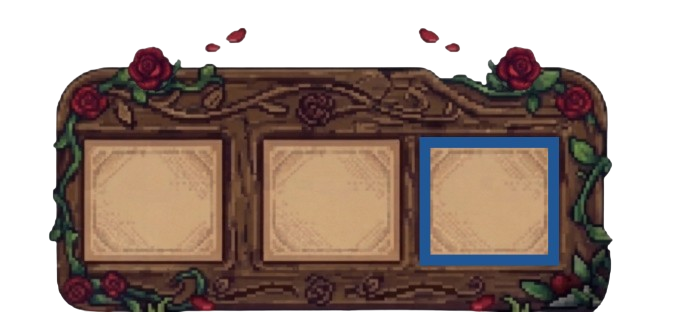
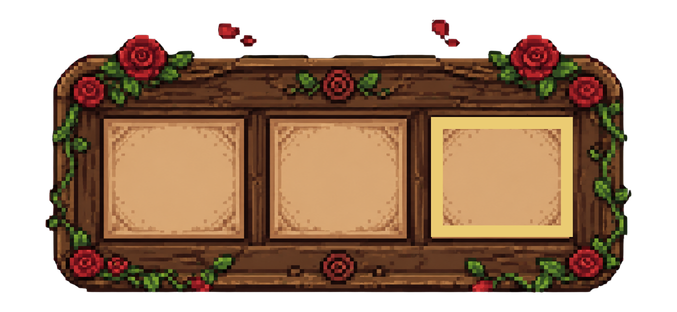
Primer Nivel, mapa acomodado

diff --git a/core/src/main/java/com/juego/progra/Mapas/HUD.java b/core/src/main/java/com/juego/progra/Mapas/HUD.java
@@ -18,14 +18,19 @@ public class HUD {
     // Texturas pre-cargadas por nivel (Evita fugas de memoria)
     private Texture[] grisNivel1, colorNivel1;
     private Texture[] grisNivel2, colorNivel2;
+    private Texture[] grisNivel3, colorNivel3;
 
-    private final int[] posX_M = {65, 182, 278};
-    private final int[] posY_M = {17, 18, 3};
-    private final int[] size_M = {75, 75, 95};
+    private final int[] posX_M = {553, 663, 762};
+    private final int[] posY_M = {33, 35, 23};
+    private final int[] size_M = {75, 75, 93};
 
-    private final int[] posX_C = {65, 183, 288};
-    private final int[] posY_C = {11, 10, 11};
+    private final int[] posX_C = {553, 663, 770};
+    private final int[] posY_C = {30, 30, 30};
     private final int[] size_C = {75, 78, 78};
+
+    private final int[] posX_F = {563, 673, 780};
+    private final int[] posY_F = {45, 45, 45};
+    private final int[] size_F = {56, 56, 56};
 
 
     private Texture[] ItemsGris = new Texture[3];
@@ -51,8 +56,8 @@ public class HUD {
 
         tablaPanel = new Table();
         tablaPanel.setBackground(new TextureRegionDrawable(new TextureRegion(texturaPaneles[0])));
-        tablaPanel.setSize(450, 150);
-        tablaPanel.setPosition(475, 2);
+        tablaPanel.setSize(450, 170);
+        tablaPanel.setPosition(950, 2);
         stage.addActor(tablaPanel);
 
         grupoItems = new Group();
@@ -81,6 +86,18 @@ public class HUD {
             new Texture("negro1.PNG"),
             new Texture("marron1.PNG"),
             new Texture("beige1.PNG")
+        };
+
+        //Flores
+        grisNivel3 = new Texture[]{
+          new Texture("blancaGris.png"),
+          new Texture("moradaGris.png"),
+          new Texture("amarillaGris.png"),
+        };
+        colorNivel3= new Texture[]{
+          new Texture("blanca1.png"),
+          new Texture ("morada1.png"),
+          new Texture("amarilla1.png"),
         };
 
         // Por defecto arrancamos con el Nivel 1
@@ -133,9 +150,26 @@ public class HUD {
         tablaPanel.setBackground(new TextureRegionDrawable(new TextureRegion(texturaPaneles[0])));
 
         // Elegimos qué configuración usar
-        int[] posYActual = (nivel == 1) ? posY_M : posY_C;
-        int[] sizeActual = (nivel == 1) ? size_M : size_C;
-        int[] posXActual = (nivel == 1) ? posX_M : posX_C;
+        int[] posXActual = {0, 0, 0};
+        int[] posYActual= {0, 0, 0};
+        int[] sizeActual= {0, 0, 0};
+
+        if(nivel==1){
+            posXActual = posX_M;
+            posYActual =posY_M;
+            sizeActual=size_M;
+
+        }else if(nivel==2){
+            posXActual = posX_C;
+            posYActual =posY_C;
+            sizeActual=size_C;
+
+        }else if (nivel==3){
+            posXActual = posX_F;
+            posYActual =posY_F;
+            sizeActual=size_F;
+        }
+
 
         if (nivel == 1) {
             for (int i = 0; i < 3; i++) {
@@ -146,6 +180,11 @@ public class HUD {
             for (int i = 0; i < 3; i++) {
                 ItemsGris[i] = grisNivel2[i];
                 ItemsColor[i] = colorNivel2[i];
+            }
+        } else if (nivel==3){
+            for (int i = 0; i < 3; i++) {
+                ItemsGris[i]= grisNivel3[i];
+                ItemsColor [i]= colorNivel3[i];
             }
         }
 

diff --git a/core/src/main/java/com/juego/progra/Mapas/MapasNiveles.java b/core/src/main/java/com/juego/progra/Mapas/MapasNiveles.java
@@ -34,7 +34,6 @@ public class MapasNiveles implements Caminable {
     private Texture estanteH;
     private Texture fondo;
     private Texture vallaInferior,vallaSuperior;
-    private Texture invernaderoTecho, invernaderoPisoC, invernaderoPisoA,invernaderoActual;
     private Texture fotosItem[][];
     private int faseItem = 0;
 
@@ -55,11 +54,6 @@ public class MapasNiveles implements Caminable {
 
     //Constructor
     public MapasNiveles() {
-        invernaderoTecho = new Texture("InvernaderoTecho.png");
-        invernaderoPisoC = new Texture("InvernaderoPiso_Cerrado.png");
-        invernaderoPisoA = new Texture("InvernaderoPiso.png");
-        invernaderoActual = invernaderoPisoC;
-
         Listaobjetos = new ArrayList<>();
     }
 
@@ -71,8 +65,8 @@ public class MapasNiveles implements Caminable {
         }else{
 
             //Arbustos
-            int anchoArbs=70;
-            int tamArbusto=70;
+            int anchoArbs=80;
+            int tamArbusto=80;
             //Items
             int anchItem=60;
             int altItem = 60;
@@ -173,7 +167,6 @@ public class MapasNiveles implements Caminable {
             }
         }
         if(!existeColor && faseItem == 2) {
-            this.invernaderoActual = invernaderoPisoA;
             System.out.println("Invernadero abierto");
         } else if(!existeColor && faseItem < 2){
             faseItem++;
@@ -228,12 +221,6 @@ public class MapasNiveles implements Caminable {
             arrayDibujo.add(new Dibujable(ene, ene.getY()));
         }
         arrayDibujo.add(new Dibujable(jugador, jugador.getY()));
-        //La casa entra al mismo orden por Y usando la base de sus paredes (347),
-        //que es donde apoya en el suelo por los costados. Quien este mas abajo
-        //se dibuja delante, quien este mas arriba queda detras.
-        if (nivel== 1 || nivel == 2) {
-            arrayDibujo.add(new Dibujable(invernaderoActual, 347));
-        }
 
         Collections.sort(arrayDibujo, (a,b) -> Float.compare(b.cY,a.cY));
         for(Dibujable cosa : arrayDibujo){
@@ -250,9 +237,6 @@ public class MapasNiveles implements Caminable {
             }
         }
         batch.draw(vallaInferior,0,0,1408,768);
-        if (nivel == 1 || nivel == 2) {
-            batch.draw(invernaderoTecho, 465, 257, 490, 260);
-        }
 
     }
 
@@ -412,7 +396,6 @@ public class MapasNiveles implements Caminable {
         estanteV = new Texture("estanteVertical.png");
 
         faseItem = 0;
-        invernaderoActual = invernaderoPisoC; // Invernadero siempre inicia cerrado
 
         configurarLimites(nivel);
 
@@ -446,9 +429,6 @@ public class MapasNiveles implements Caminable {
         if(arbustoFlores != null) arbustoFlores.dispose();
         if(vallaSuperior != null) vallaSuperior.dispose();
         if(vallaInferior != null) vallaInferior.dispose();
-        if(invernaderoTecho != null) invernaderoTecho.dispose();
-        if(invernaderoPisoC != null) invernaderoPisoC.dispose();
-        if(invernaderoPisoA != null) invernaderoPisoA.dispose();
         if(fondo != null) fondo.dispose();
         if(estanteV != null) estanteV.dispose();
         if(estanteH != null) estanteH.dispose();
